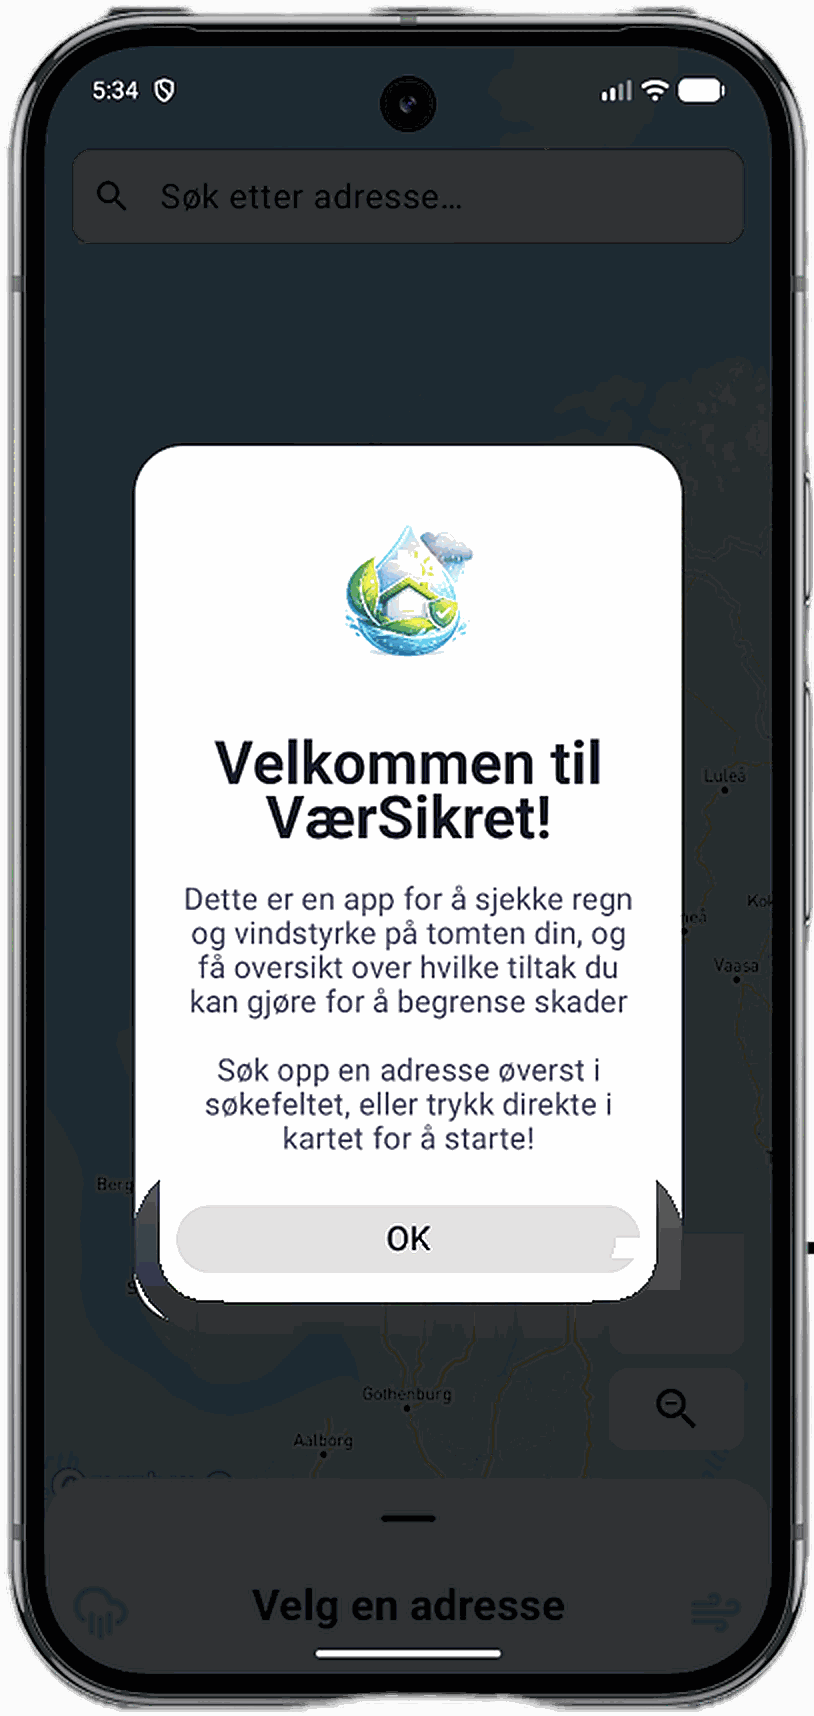
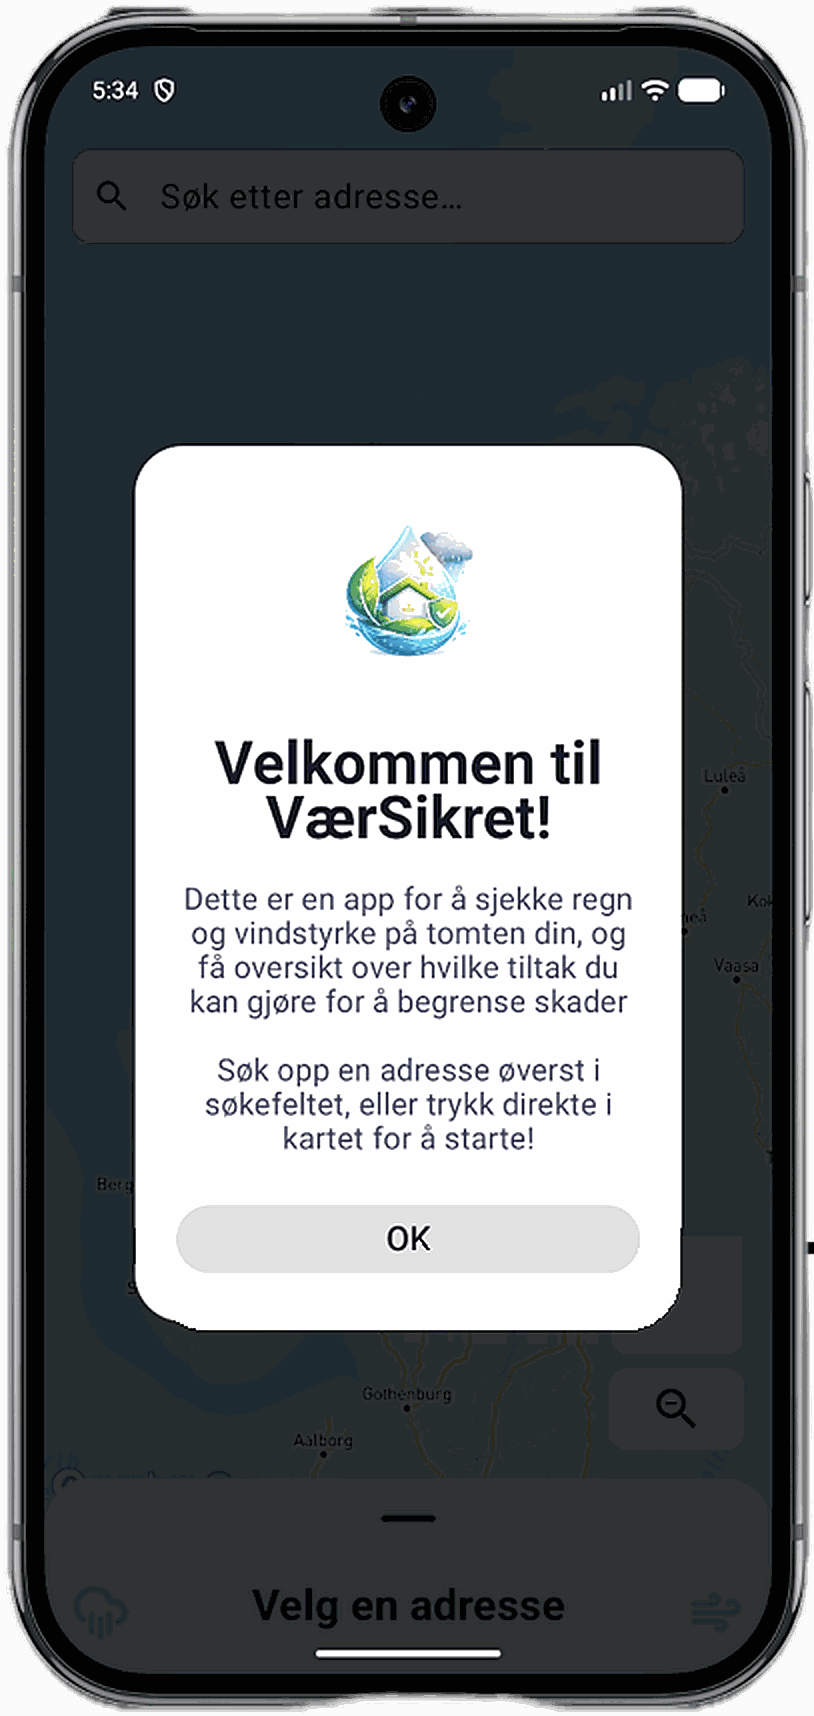
Legg til nettsiden som prosjekt

Changed region(s): [[0.1536, 0.6795, 0.86, 0.803]]

diff --git a/src/i18n.jsx b/src/i18n.jsx
@@ -26,6 +26,12 @@ export const translations = {
     p_vs_desc:
       "Gruppeprosjekt i IN2000 ved UiO. Android-app som henter observasjonshistorikken for en valgt eiendom fra Meteorologisk institutts Frost API, regner ut hvor uvanlig vinden og nedbøren er akkurat der, og foreslår konkrete klimatiltak. Kotlin, Jetpack Compose, MVVM.",
 
+    p_pf_title: "edenmonday.no",
+    p_pf_tag: "Denne nettsiden",
+    p_pf_period: "juli 2026",
+    p_pf_desc:
+      "Ja, denne. Bygget fra bunnen med React og Vite, med en liten egen i18n-løsning for norsk og engelsk framfor et bibliotek. Samme repo huser også VærSikret-siden, som bygges fra en undermappe.",
+
     // CV seksjon
     cv_title: "CV",
     cv_education: "Utdanning",
@@ -70,6 +76,12 @@ export const translations = {
     p_vs_period: "feb. 2026 - may 2026",
     p_vs_desc:
       "Group project in IN2000 Software Engineering at UiO. Android app that pulls the observation history for a chosen property from the Norwegian Meteorological Institute's Frost API, works out how unusual the wind and rainfall are at that exact spot, and suggests concrete climate adaptation measures. Kotlin, Jetpack Compose, MVVM.",
+
+    p_pf_title: "edenmonday.no",
+    p_pf_tag: "This website",
+    p_pf_period: "July 2026",
+    p_pf_desc:
+      "Yes, this one. Built from scratch with React and Vite, with a small home-made i18n setup for Norwegian and English instead of a library. The same repo also holds the VærSikret site, built from a subfolder.",
 
     cv_title: "CV",
     cv_education: "Education",

diff --git a/src/pages/Home.jsx b/src/pages/Home.jsx
@@ -105,6 +105,22 @@ export default function Home() {
             </span>
           </div>
 
+          <div className="project">
+            <span className="project-name">{t("p_pf_title")}</span>
+            <span className="project-period">{t("p_pf_period")}</span>
+            <span className="project-tag">{t("p_pf_tag")}</span>
+            <p className="project-desc">{t("p_pf_desc")}</p>
+            <span className="project-links">
+              <a
+                href="https://github.com/edenmonday/portfolio"
+                target="_blank"
+                rel="noreferrer"
+              >
+                {t("github")}
+              </a>
+            </span>
+          </div>
+
         </section>
 
         <section id="cv">
@@ -168,9 +184,6 @@ export default function Home() {
                 "REST APIs",
                 "HTML, CSS",
                 "Git & GitHub",
-                
-
-                // TODO: legg til mer her baka
               ].map((s) => (
                 <li key={s}>{s}</li>
               ))}
